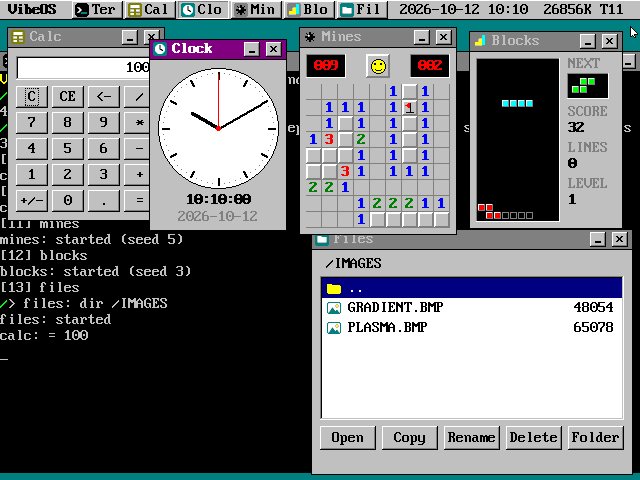
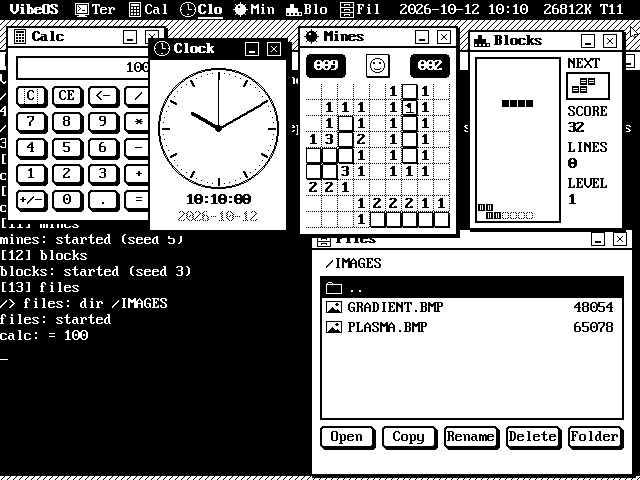
README screenshot of the black and white desktop (confirmed by the owner)

diff --git a/docs/PLAN.md b/docs/PLAN.md
@@ -15,8 +15,8 @@
 | 項目 | 状態 |
 |---|---|
 | 設計 | ドラフト完了（DESIGN.md） |
-| 現在の Phase | **白黒だけで描く計画（Phase 55〜57、[計画書](plans/mono.md)）は完了**（2026-10-18。README のスクリーンショットはオーナーの確認待ち）（ブランチ `test/mono`。2026-10-18。見た目は見本 C, D-077）。その前: **VGA のモード 12h だけにする計画（Phase 49〜54、[計画書](plans/vga16.md) §9）は完了**（ブランチ `test/mode12`。2026-10-16。画面はモード 12h だけ、フロッピーの空きは 512,000 バイト）。その前の計画書はすべて完了（2026-10-15。最後は簡易ウェブブラウザの Phase 45〜48、[計画書](plans/browser.md) §9）。アプリは 42 本、フロッピーの空きは 430,080 バイト。それまでの計画書もすべて完了（2026-10-13 時点）。完了した計画（新しい順）: browser の B1〜B4（簡易ウェブブラウザ [計画書](plans/browser.md)。ブランチ `browser` で作業し main に合流, D-068・D-070）・aster-look の A1〜A4（見た目を Aster のモックアップに近づける [計画書](plans/aster-look.md)。Aster はオーナーが別の場で作ったデスクトップのデザイン案の名前で、リポジトリには無い。ブランチ `aster-look` で作業し main に合流, DECISIONS.md D-056・D-066）・modern-look の M1〜M6（見た目を今風に [計画書](plans/modern-look.md)。ブランチ `modern-look` で作業し main に合流, D-046・D-067）・Phase 38〜44（パイプとリダイレクト [計画書](plans/pipe.md) → ユーザ空間のシェル [計画書](plans/user-shell.md)）・Phase 32〜37（デスクトップの改良 [計画書](plans/desktop.md)。D1〜D6。ウィンドウの大きさの変更は見送り, D-038）・Phase 30〜31（アプリの圧縮 [計画書](plans/app-compress.md)。その時点でアプリは gzip で元の 43.1%）・Phase 27〜29（カーネルの圧縮、LZSA2 + BCJ）・Phase 22〜26（LZSA の自作）・Phase 16〜21（ネットワーク。LAN・WAN とも制限なく使える, D-032。WAN のテストで試す宛先はオーナーの許可制） |
-| 次にやること | オーナーの指示待ち（README のスクリーンショットの確認。白黒の見た目は「いったん」なので変えるか、`test/mono` をどこに合流するかも未定）。オーナーの指示待ち（`test/mode12` を main に合流するかは未定。D-072 の 10）。実機で使うネットワークカードは近い将来は決めない（D-067）。WAN で新しい宛先を試すときは許可を得てから。main は origin より先に進んでいる（push はしていない） |
+| 現在の Phase | **白黒だけで描く計画（Phase 55〜57、[計画書](plans/mono.md)）は完了**（2026-10-18。README のスクリーンショットはオーナーが確かめた）（ブランチ `test/mono`。2026-10-18。見た目は見本 C, D-077）。その前: **VGA のモード 12h だけにする計画（Phase 49〜54、[計画書](plans/vga16.md) §9）は完了**（ブランチ `test/mode12`。2026-10-16。画面はモード 12h だけ、フロッピーの空きは 512,000 バイト）。その前の計画書はすべて完了（2026-10-15。最後は簡易ウェブブラウザの Phase 45〜48、[計画書](plans/browser.md) §9）。アプリは 42 本、フロッピーの空きは 430,080 バイト。それまでの計画書もすべて完了（2026-10-13 時点）。完了した計画（新しい順）: browser の B1〜B4（簡易ウェブブラウザ [計画書](plans/browser.md)。ブランチ `browser` で作業し main に合流, D-068・D-070）・aster-look の A1〜A4（見た目を Aster のモックアップに近づける [計画書](plans/aster-look.md)。Aster はオーナーが別の場で作ったデスクトップのデザイン案の名前で、リポジトリには無い。ブランチ `aster-look` で作業し main に合流, DECISIONS.md D-056・D-066）・modern-look の M1〜M6（見た目を今風に [計画書](plans/modern-look.md)。ブランチ `modern-look` で作業し main に合流, D-046・D-067）・Phase 38〜44（パイプとリダイレクト [計画書](plans/pipe.md) → ユーザ空間のシェル [計画書](plans/user-shell.md)）・Phase 32〜37（デスクトップの改良 [計画書](plans/desktop.md)。D1〜D6。ウィンドウの大きさの変更は見送り, D-038）・Phase 30〜31（アプリの圧縮 [計画書](plans/app-compress.md)。その時点でアプリは gzip で元の 43.1%）・Phase 27〜29（カーネルの圧縮、LZSA2 + BCJ）・Phase 22〜26（LZSA の自作）・Phase 16〜21（ネットワーク。LAN・WAN とも制限なく使える, D-032。WAN のテストで試す宛先はオーナーの許可制） |
+| 次にやること | オーナーの指示待ち（白黒の見た目は「いったん」なので変えるか、`test/mono` をどこに合流するかも未定）。オーナーの指示待ち（`test/mode12` を main に合流するかは未定。D-072 の 10）。実機で使うネットワークカードは近い将来は決めない（D-067）。WAN で新しい宛先を試すときは許可を得てから。main は origin より先に進んでいる（push はしていない） |
 
 ## 3. Phase 一覧
 

diff --git a/docs/plans/mono.md b/docs/plans/mono.md
@@ -141,5 +141,5 @@
 - 4 面への並べ替え（`planar`）と 16 色の誤差拡散（`Lut16`）は使わなくなったので消した。16 色の表（`VGA16`）は API の番号と DAC のために残した
 - 速さ（ktest `gfx_frame_speed`、QEMU）: 中身が変わる 1 枚が 3ms・5,297 バイト、変わらない 1 枚が 2ms・0 バイト（16 色のときは 5ms・17,622 バイト）。VRAM の写しは 38,400 バイト（前は 153,600）
 - 大きさ（`make size-report`）: KERNEL.SYS 393,360 バイト（圧縮して 178,139 = 45.2%）、アプリは gzip で 633,592 バイト、フロッピーの空きは 509,440 バイト（前は 512,000）
-- README のスクリーンショットは撮り直した（オーナーが確かめるまでコミットしない。D-055）
+- README のスクリーンショットは撮り直し、オーナーが確かめてからコミットした（D-055）
 - 残っていること: 実機（か 86Box）で市松のちらつきと速さを確かめること。見た目は「いったん」なので、オーナーが画像を見て変えてよい
